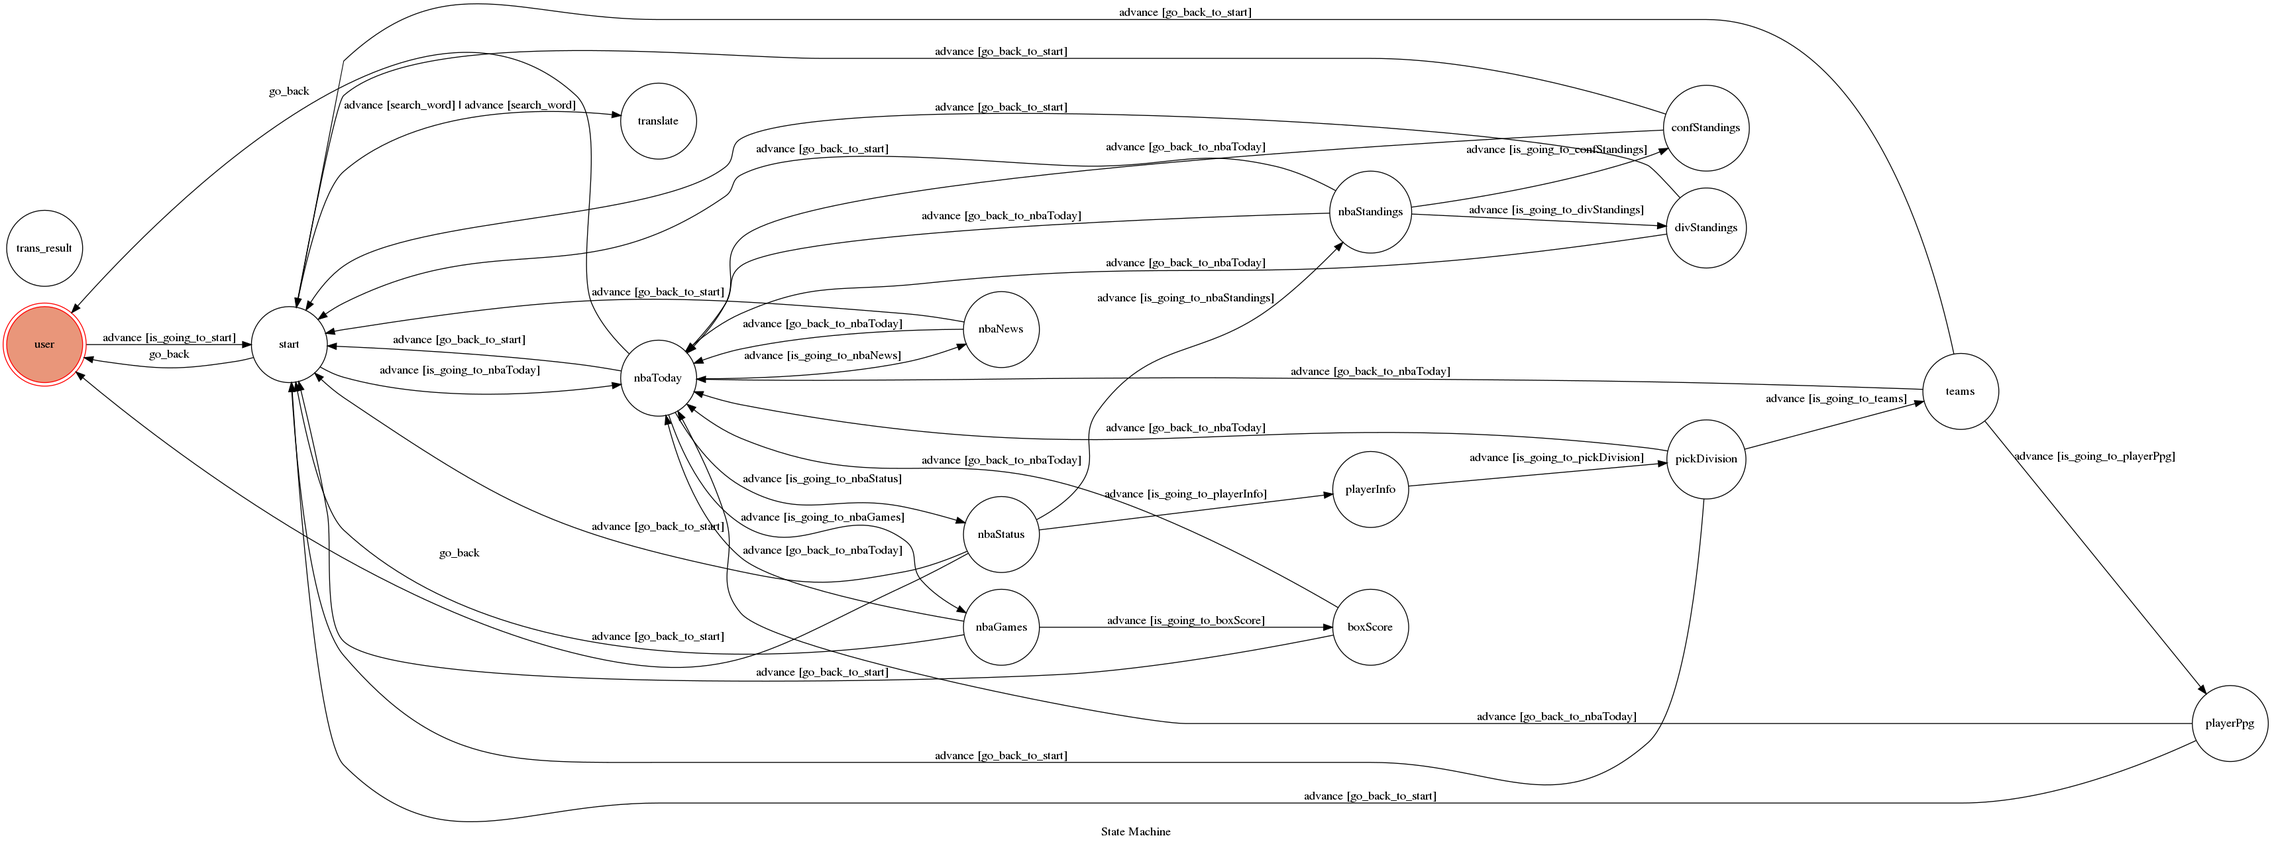
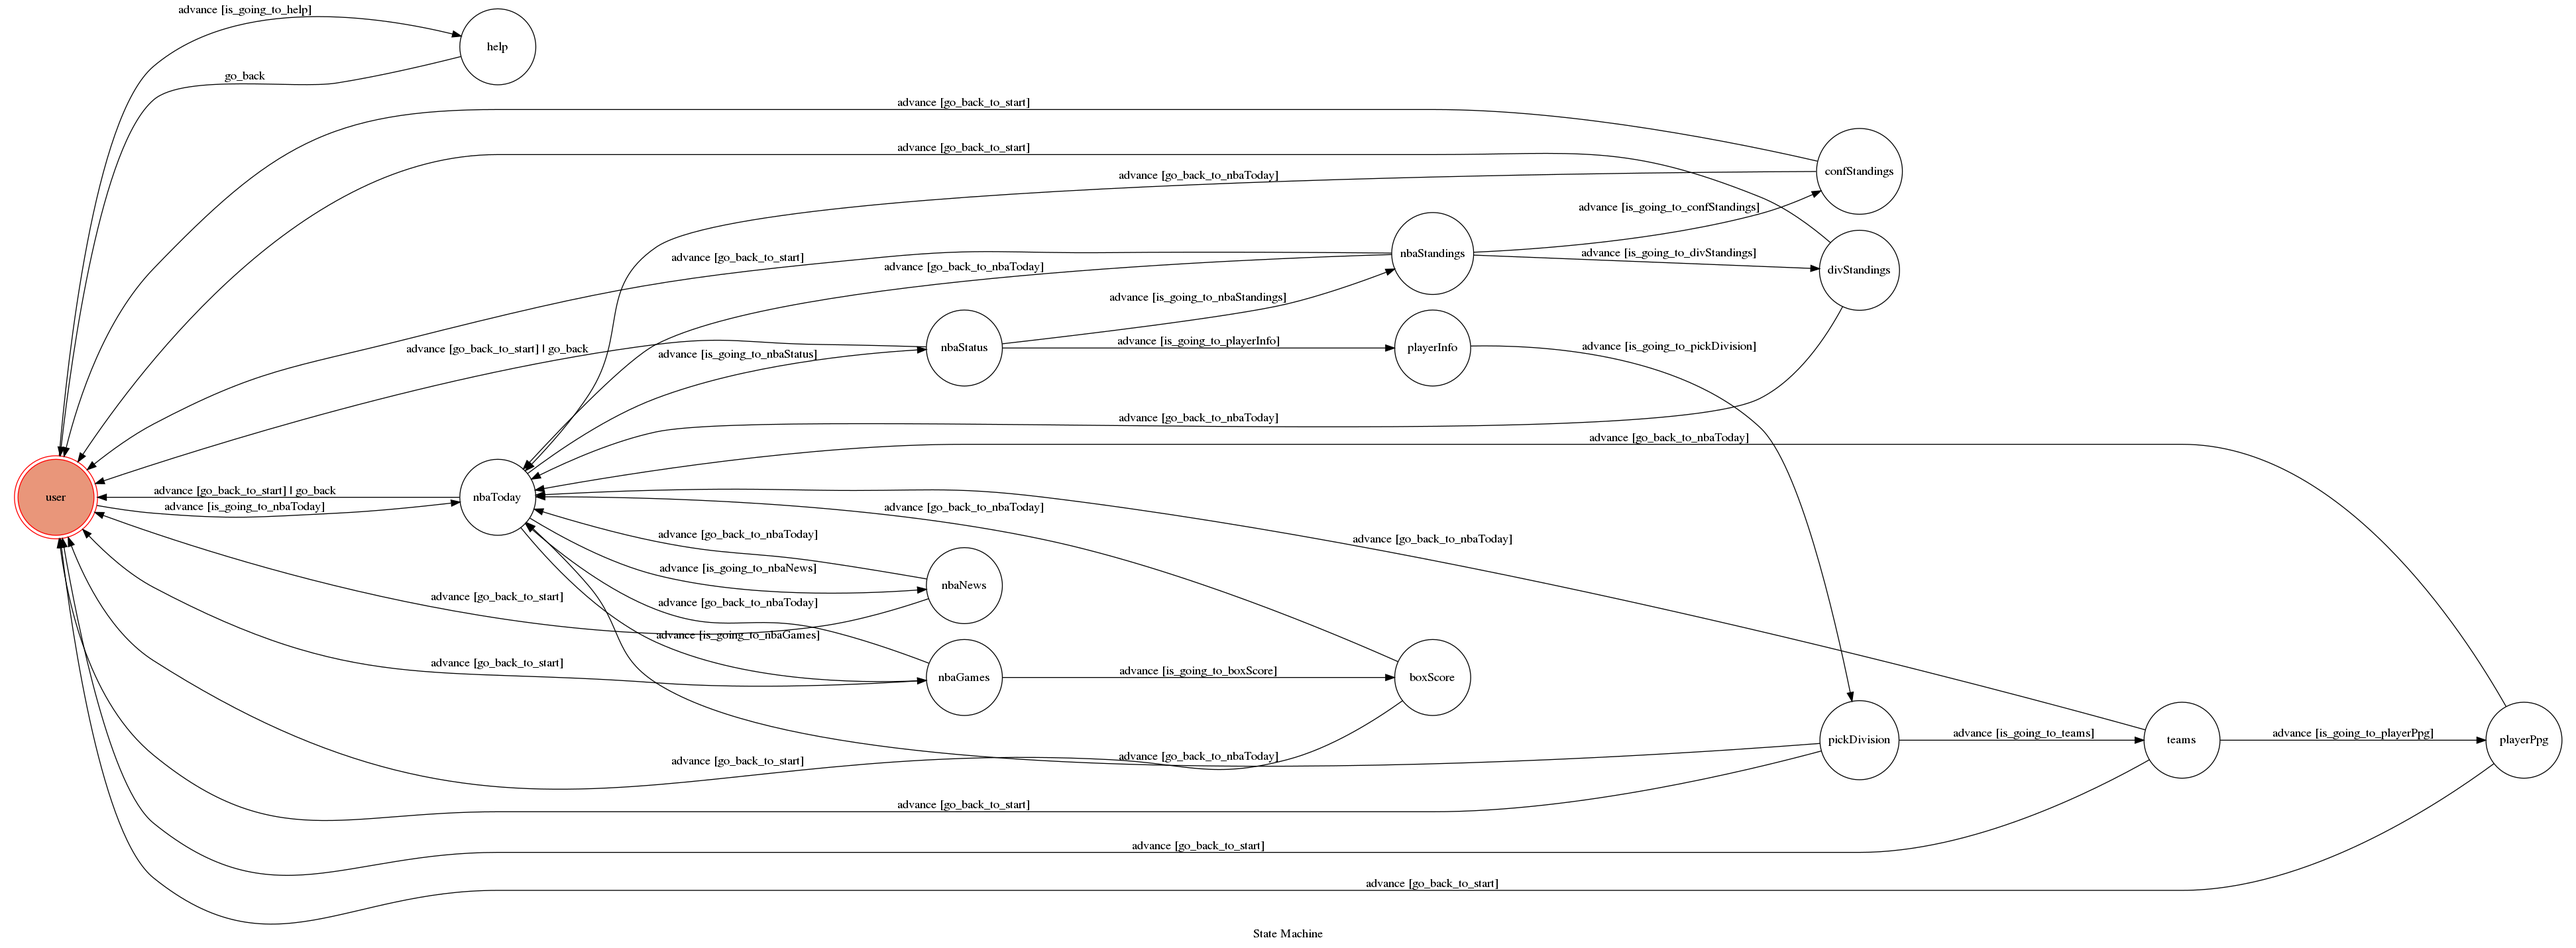
Send movie pics

diff --git a/fsm.py b/fsm.py
@@ -50,6 +50,17 @@ class TocMachine(GraphMachine):
                 return True
         return False
 
+    def is_going_to_moviePics(self, event):
+        if event.get("postback"):
+            text = event['postback']['title']
+            return text.lower() == 'movie pictures'
+        elif event.get("message"):
+            text = event['message']['text']
+            text = word_tokenize(text.lower())
+            if "movie" in text or "picture" in text:
+                return True
+        return False
+
     # # input s to start (NBA today)
     def is_going_to_nbaToday(self, event):
         if event.get("postback"):
@@ -258,6 +269,15 @@ class TocMachine(GraphMachine):
             }
         ]
         response = quick_reply_message(sender_id, text, quick_replies)
+        self.go_back()
+
+    def on_enter_moviePics(self, event):
+        print("==========================")
+        print("Movie Pictures")
+        print("==========================")
+        sender_id = event['sender']['id']
+        url = "http://posters.imdb.cn/upload/2016/08/22/vNgaX4hhj_1471854359.jpg"
+        responese = send_image_message(sender_id, url)
         self.go_back()
 
     def on_enter_nbaToday(self, event):

diff --git a/app.py b/app.py
@@ -9,6 +9,7 @@ machine = TocMachine(
     states=[
         'user',
         'help',
+        'moviePics',
         'nbaToday',
         'nbaStatus',
         'nbaStandings',
@@ -28,6 +29,12 @@ machine = TocMachine(
             'source': 'user',
             'dest': 'help',
             'conditions': 'is_going_to_help'
+        },
+        {
+            'trigger': 'advance',
+            'source': 'user',
+            'dest': 'moviePics',
+            'conditions': 'is_going_to_moviePics'
         },
         {
             'trigger': 'advance',
@@ -139,6 +146,7 @@ machine = TocMachine(
             'trigger': 'go_back',
             'source': [
                 'help',
+                'moviePics',
                 'nbaToday',
                 'nbaStatus'
             ],
